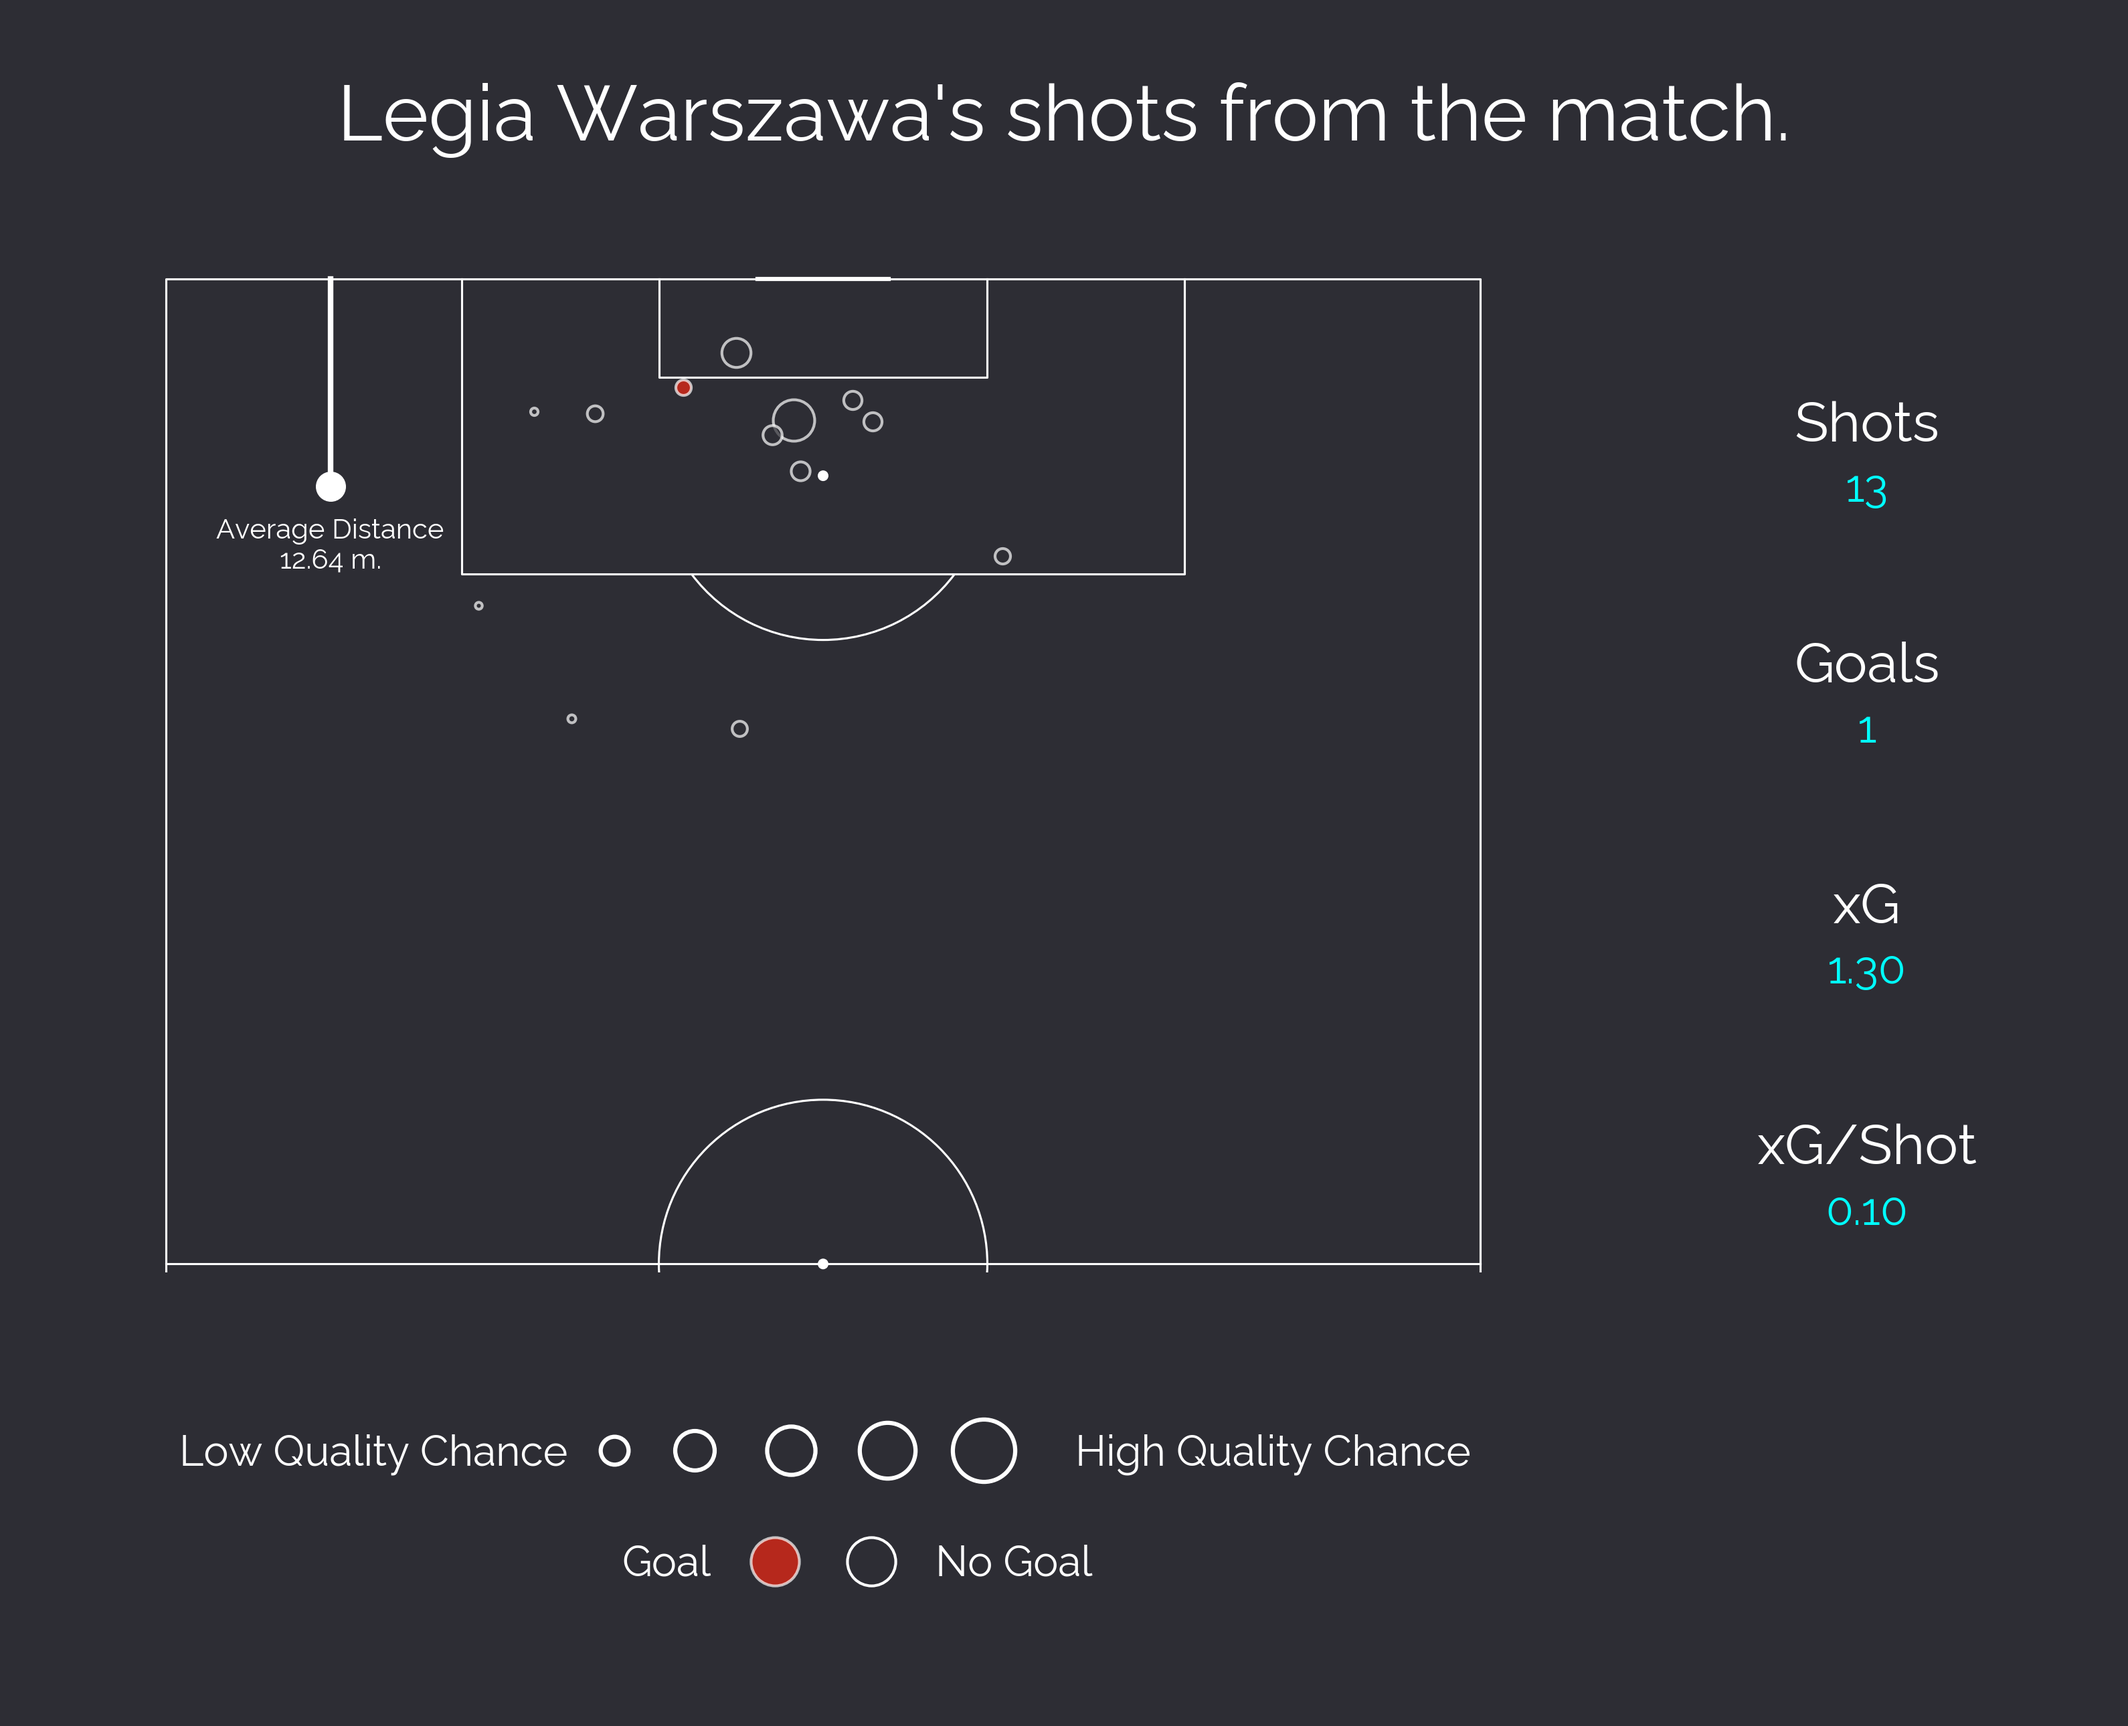
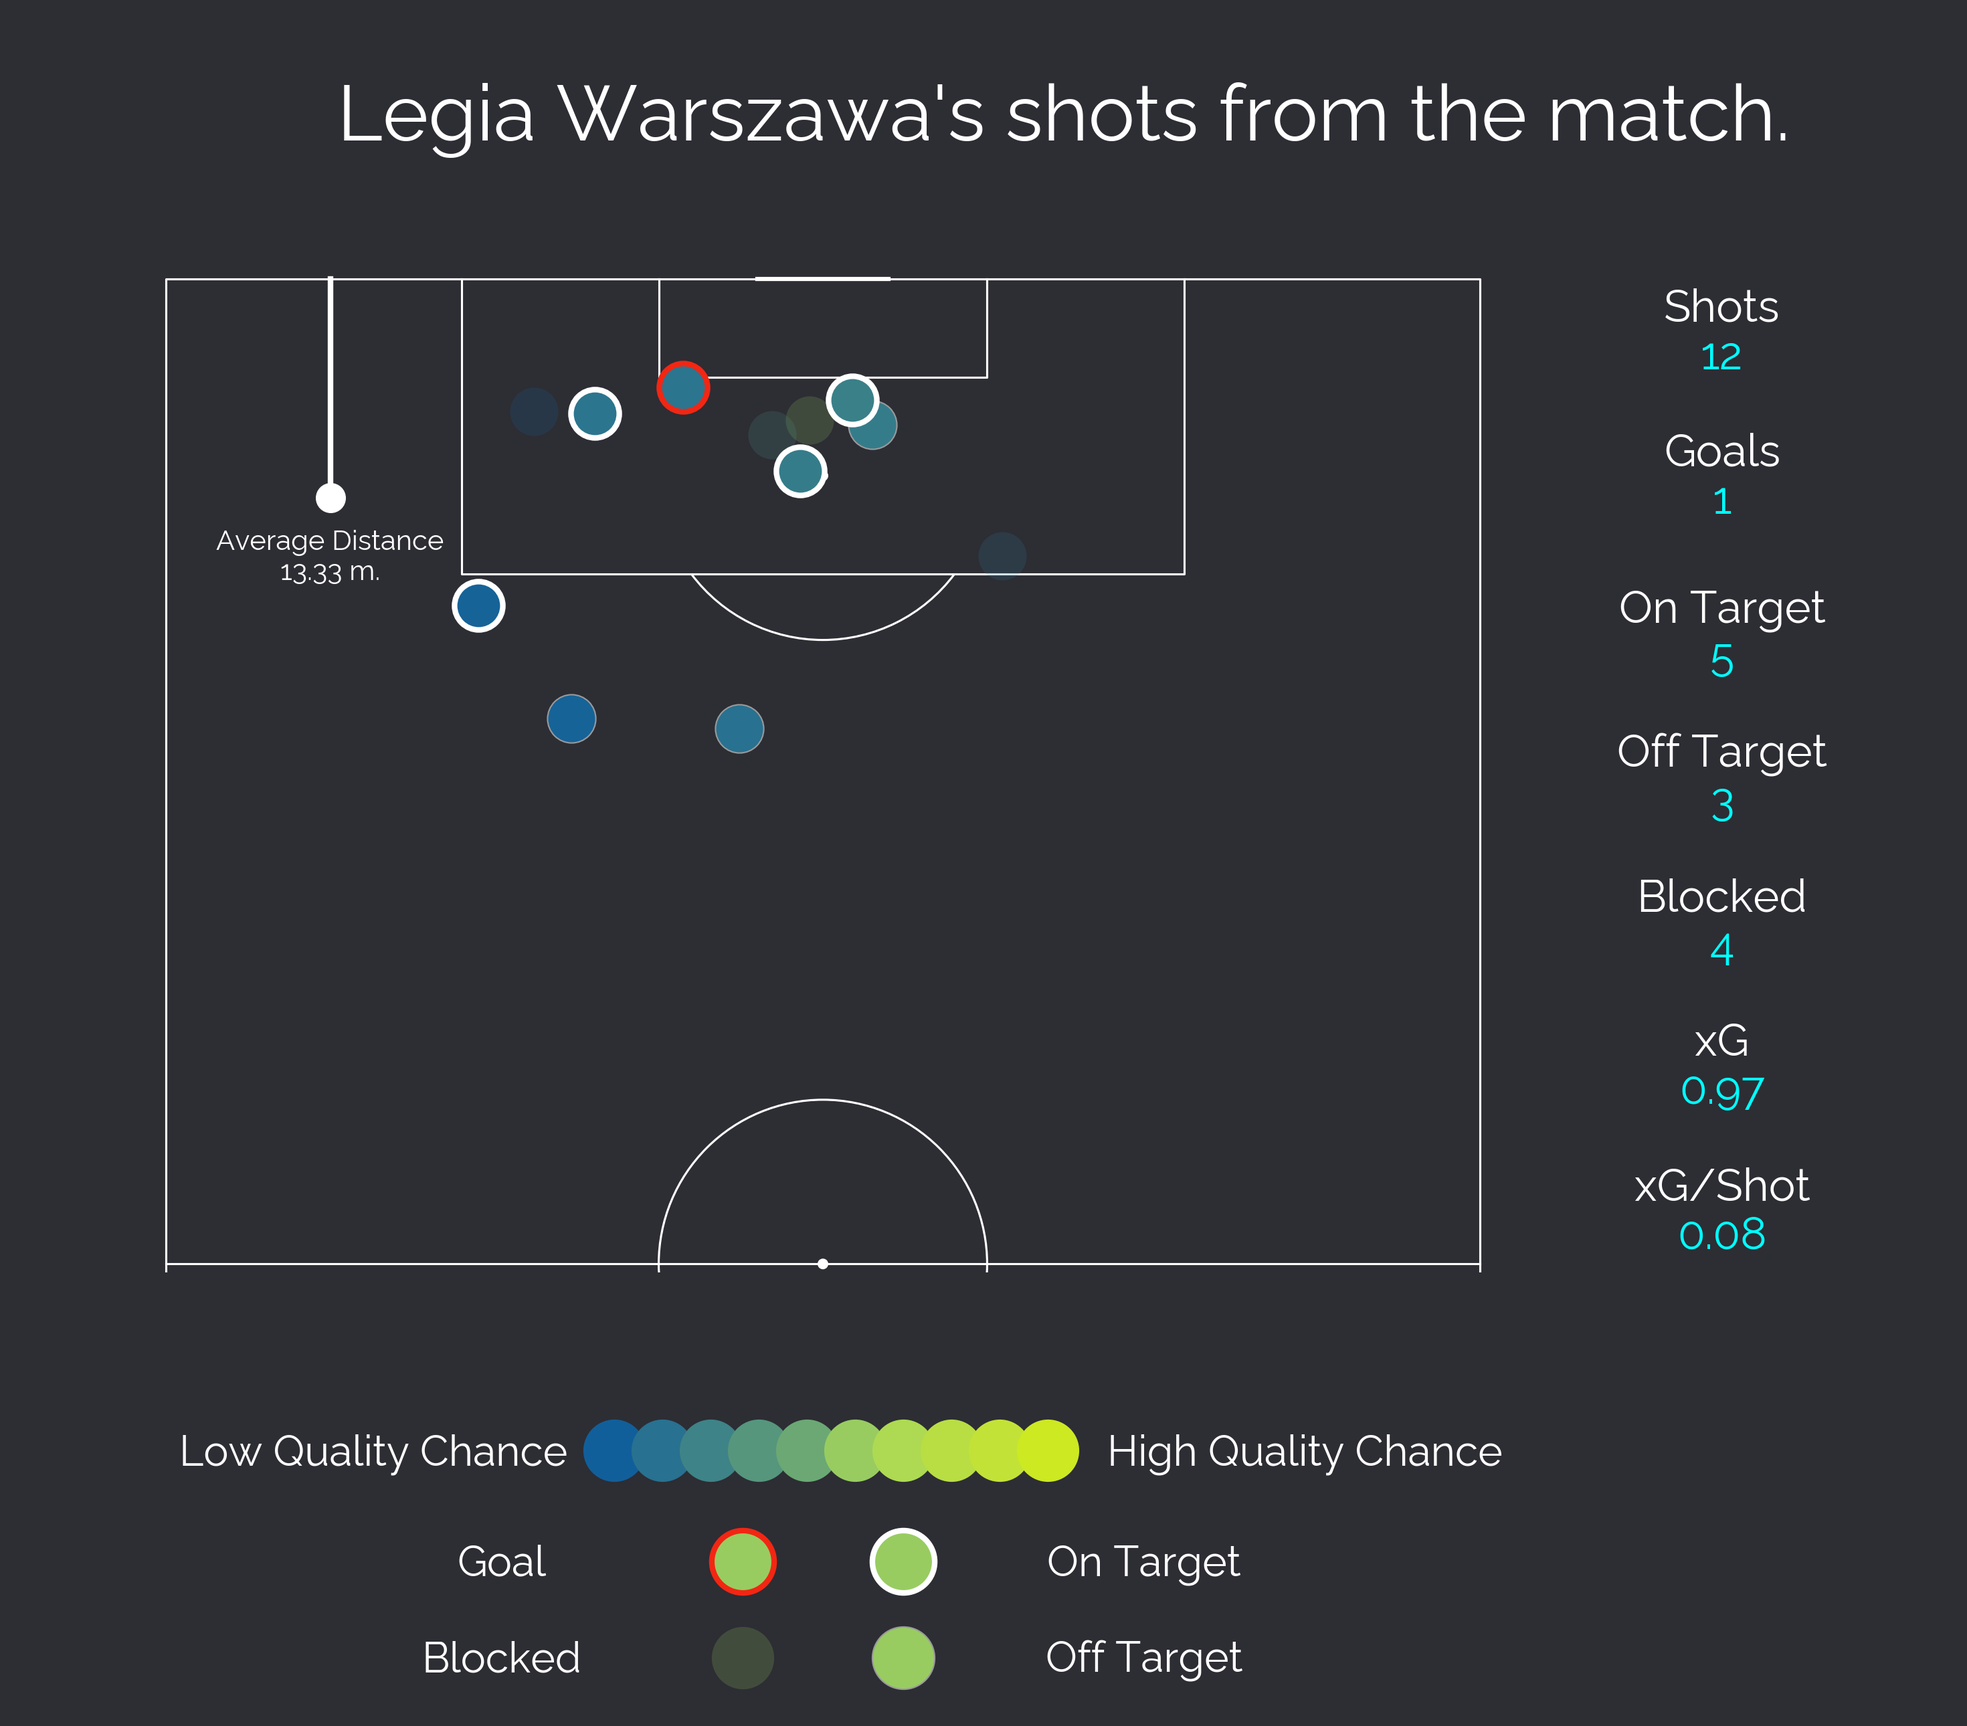
change shot maps

diff --git a/plots_and_charts/shot_maps.py b/plots_and_charts/shot_maps.py
@@ -1,5 +1,6 @@
 import matplotlib.pyplot as plt
 import pandas as pd
+from matplotlib.colors import LinearSegmentedColormap
 from mplsoccer import VerticalPitch
 
 from constants import Constants
@@ -18,6 +19,8 @@ class ShotMaps:
         """
         self.shots_df = shots_df
         self.team_for = team_for
+        self.cmap = LinearSegmentedColormap.from_list("", Constants.SHOT_MAP_CMAP, N=100)
+
 
     def prepare_data(self, team_for: bool) -> pd.DataFrame:
         team_shots = self.shots_df[(self.shots_df["team"] == self.team_for) == team_for]
@@ -127,6 +130,152 @@ class ShotMaps:
         ax4.text(x=0.57, y=0.27, s=f'No Goal', fontsize=15, color=Constants.COLORS["white"], ha='left')
         ax4.set_axis_off()
 
+        fig.savefig(
+            f"{directory}/shot_maps_{team_type}.png",
+            facecolor=fig.get_facecolor(),
+            dpi=Constants.DPI,
+            bbox_inches='tight', 
+            pad_inches=Constants.PAD_INCHES
+        )
+
+        return fig
+    
+    def plot_advanced_shot_map(self, team_for: bool, directory: str, figsize: tuple[int, int] = (8, 12)) -> plt.Figure:
+        shots = self.prepare_data(team_for)
+        team_type = "for" if team_for else "against"
+
+        total_shots = shots.shape[0]
+        shots_on_target = shots[shots["shot_outcome"].isin(["Saved", "Goal", "Saved to Post"])].shape[0]
+        shots_off_target = shots[~shots["shot_outcome"].isin(["Saved", "Saved to Post", "Blocked", "Goal"])].shape[0]
+        shots_blocked = shots[shots["shot_outcome"] == "Blocked"].shape[0]
+        total_goals = shots[shots['shot_outcome'] == 'Goal'].shape[0]
+        total_xG = shots['shot_statsbomb_xg'].sum()
+        xG_per_shot = total_xG / total_shots
+        points_average_distance = shots['x'].mean()
+        actual_average_distance = 120 - shots['x'].mean()
+
+        pitch = VerticalPitch(
+            pitch_type='statsbomb', 
+            half=True, 
+            pitch_color=Constants.DARK_BACKGROUND_COLOR, 
+            pad_bottom=.5, 
+            line_color=Constants.COLORS["white"],
+            linewidth=.75,
+            axis=True, label=True
+        )
+
+        # create a subplot with 2 rows and 1 column
+        fig = plt.figure(figsize=figsize)
+        fig.patch.set_facecolor(Constants.DARK_BACKGROUND_COLOR)
+        title = self.team_for if team_for else "Opponent"
+        plt.rcParams["font.family"] = Constants.FONT
+        # Top row for the team names and score
+        # [left, bottom, width, height]
+
+        ax1 = fig.add_axes([0, 0.6, 1, .2])
+        ax1.set_facecolor(Constants.DARK_BACKGROUND_COLOR)
+        ax1.set_xlim(0, 1)
+        ax1.set_ylim(0, 1)
+
+        ax1.text(x=0.65, y=.75, s=f"{title}'s shots from the match.", fontsize=28, fontweight='bold', color=Constants.COLORS["white"], ha='center')
+        ax1.set_axis_off()
+
+        ax2 = fig.add_axes([0.05, 0.25, .9, .5])
+        ax2.set_facecolor(Constants.DARK_BACKGROUND_COLOR)
+
+        pitch.draw(ax=ax2)
+        # create a scatter plot at y 100 - average_distance
+        ax2.scatter(x=10, y=points_average_distance, s=100, color=Constants.COLORS["white"], linewidth=.8)
+        # create a line from the bottom of the pitch to the scatter point
+        ax2.plot([10, 10], [120, points_average_distance], color=Constants.COLORS["white"], linewidth=2)
+        # Add a text label for the average distance
+        ax2.text(x=10, y=points_average_distance - 5, s=f'Average Distance\n{actual_average_distance:.2f} m.', fontsize=10, color=Constants.COLORS["white"], ha='center')
+        for x in shots.to_dict(orient='records'):
+            color = self.cmap(x['shot_statsbomb_xg'])
+            edge_color = Constants.COLORS["red"] if x["shot_outcome"] == "Goal" else Constants.COLORS["white"]
+            edge_color = edge_color if x["shot_outcome"] in ["Goal", "Saved", "Saved to Post"] else Constants.COLORS["sb_grey"]
+            linewidth = 2 if x["shot_outcome"] in ["Goal", "Saved", "Saved to Post"] else 0.5
+            linewidth = linewidth if x["shot_outcome"] != "Blocked" else 0
+            alpha = 0.2 if x["shot_outcome"] in ["Blocked"] else 1
+            # marker = "D" if x["shot_outcome"] == "Goal" else "o"
+            zorder = 5 if x["shot_outcome"] in ["Goal", "Saved", "Saved to Post"] else 4
+            pitch.scatter(
+                x['x'], 
+                x['y'], 
+                s=300, 
+                color=color,
+                ax=ax2,
+                zorder=zorder,
+                alpha=alpha,
+                # marker=marker,
+                linewidth=linewidth,
+                edgecolor=edge_color
+            )
+            
+        ax2.set_axis_off()
+
+        # add another axis for the stats
+        ax3 = fig.add_axes([1, .2, 0.2, .05])
+        ax3.set_facecolor(Constants.DARK_BACKGROUND_COLOR)
+        ax3.set_xlim(0, 1)
+        ax3.set_ylim(0, 1)
+
+
+        ax3.text(x=0.3, y=9.5, s='Shots', fontsize=16, fontweight='bold', color=Constants.COLORS["white"], ha='center')
+        ax3.text(x=0.3, y=9.1, s=f'{total_shots}', fontsize=16, color=Constants.COLORS["cyan"], ha='center')
+        
+        ax3.text(x=0.3, y=8.3, s='Goals', fontsize=16, fontweight='bold', color=Constants.COLORS["white"], ha='center')
+        ax3.text(x=0.3, y=7.9, s=f'{total_goals}', fontsize=16, color=Constants.COLORS["cyan"], ha='center')
+
+        ax3.text(x=0.3, y=7, s='On Target', fontsize=16, fontweight='bold', color=Constants.COLORS["white"], ha='center')
+        ax3.text(x=0.3, y=6.6, s=f'{shots_on_target}', fontsize=16, color=Constants.COLORS["cyan"], ha='center')
+
+        ax3.text(x=0.3, y=5.8, s='Off Target', fontsize=16, fontweight='bold', color=Constants.COLORS["white"], ha='center')
+        ax3.text(x=0.3, y=5.4, s=f'{shots_off_target}', fontsize=16, color=Constants.COLORS["cyan"], ha='center')
+
+        ax3.text(x=0.3, y=4.6, s='Blocked', fontsize=16, fontweight='bold', color=Constants.COLORS["white"], ha='center')
+        ax3.text(x=0.3, y=4.2, s=f'{shots_blocked}', fontsize=16, color=Constants.COLORS["cyan"], ha='center')
+        
+        ax3.text(x=0.3, y=3.4, s='xG', fontsize=16, fontweight='bold', color=Constants.COLORS["white"], ha='center')
+        ax3.text(x=0.3, y=3, s=f'{total_xG:.2f}', fontsize=16, color=Constants.COLORS["cyan"], ha='center')
+
+        ax3.text(x=0.3, y=2.2, s='xG/Shot', fontsize=16, fontweight='bold', color=Constants.COLORS["white"], ha='center')
+        ax3.text(x=0.3, y=1.8, s=f'{xG_per_shot:.2f}', fontsize=16, color=Constants.COLORS["cyan"], ha='center')
+
+        ax3.set_axis_off()
+
+
+        # add another axis for the stats
+        ax4 = fig.add_axes([0, 0.1, 1, 0.2])
+        ax4.set_facecolor(Constants.DARK_BACKGROUND_COLOR)
+        ax4.set_xlim(0, 1)
+        ax4.set_ylim(0, 1)
+
+        size = 500
+        ax4.text(x=0.22, y=0.5, s=f'Low Quality Chance', fontsize=15, color=Constants.COLORS["white"], ha='center')
+        ax4.scatter(x=0.37, y=0.53, s=size, color=self.cmap(0.0), edgecolor=Constants.COLORS["white"], linewidth=0)
+        ax4.scatter(x=0.40, y=0.53, s=size, color=self.cmap(0.05), edgecolor=Constants.COLORS["white"], linewidth=0)
+        ax4.scatter(x=0.43, y=0.53, s=size, color=self.cmap(0.1), edgecolor=Constants.COLORS["white"], linewidth=0)
+        ax4.scatter(x=0.46, y=0.53, s=size, color=self.cmap(0.15), edgecolor=Constants.COLORS["white"], linewidth=0)
+        ax4.scatter(x=0.49, y=0.53, s=size, color=self.cmap(0.2), edgecolor=Constants.COLORS["white"], linewidth=0)
+        ax4.scatter(x=0.52, y=0.53, s=size, color=self.cmap(0.3), edgecolor=Constants.COLORS["white"], linewidth=0)
+        ax4.scatter(x=0.55, y=0.53, s=size, color=self.cmap(0.4), edgecolor=Constants.COLORS["white"], linewidth=0)
+        ax4.scatter(x=0.58, y=0.53, s=size, color=self.cmap(0.5), edgecolor=Constants.COLORS["white"], linewidth=0)
+        ax4.scatter(x=0.61, y=0.53, s=size, color=self.cmap(0.6), edgecolor=Constants.COLORS["white"], linewidth=0)
+        ax4.scatter(x=0.64, y=0.53, s=size, color=self.cmap(0.8), edgecolor=Constants.COLORS["white"], linewidth=0)
+        ax4.text(x=0.8, y=0.5, s=f'High Quality Chance', fontsize=15, color=Constants.COLORS["white"], ha='center')
+
+        ax4.scatter(x=0.45, y=0.3, s=size, color=self.cmap(0.3), edgecolor=Constants.COLORS["red"], linewidth=2, alpha=1)
+        ax4.text(x=0.3, y=0.27, s=f'Goal', fontsize=15, color=Constants.COLORS["white"], ha='center')
+        ax4.scatter(x=0.55, y=0.3, s=size, color=self.cmap(0.3), edgecolor=Constants.COLORS["white"], linewidth=2, alpha=1)
+        ax4.text(x=0.7, y=0.27, s=f'On Target', fontsize=15, color=Constants.COLORS["white"], ha='center')
+        ax4.scatter(x=0.55, y=0.1, s=size, color=self.cmap(0.3), edgecolor=Constants.COLORS["sb_grey"], linewidth=0.5, alpha=1)
+        ax4.text(x=0.7, y=0.07, s=f'Off Target', fontsize=15, color=Constants.COLORS["white"], ha='center')
+        ax4.scatter(x=0.45, y=0.1, s=size, color=self.cmap(0.3), edgecolor=Constants.COLORS["white"], linewidth=0, alpha=0.2)
+        ax4.text(x=0.3, y=0.07, s=f'Blocked', fontsize=15, color=Constants.COLORS["white"], ha='center')
+        
+        ax4.set_axis_off()
+                
         fig.savefig(
             f"{directory}/shot_maps_{team_type}.png",
             facecolor=fig.get_facecolor(),

diff --git a/streamlit_app.py b/streamlit_app.py
@@ -192,13 +192,13 @@ if match:
         if os.path.isfile(path) and not REGENERATE:
             st.image(path, use_column_width=True)
         else:
-            st.pyplot(shot_maps.plot_shot_map(directory=directory, team_for=True), clear_figure=True)
+            st.pyplot(shot_maps.plot_advanced_shot_map(directory=directory, team_for=True), clear_figure=True)
     with col2:
         path = f"matches/{match_id}/shot_maps_against.png"
         if os.path.isfile(path) and not REGENERATE:
             st.image(path, use_column_width=True)
         else:
-            st.pyplot(shot_maps.plot_shot_map(directory=directory, team_for=False), clear_figure=True)
+            st.pyplot(shot_maps.plot_advanced_shot_map(directory=directory, team_for=False), clear_figure=True)
 
     toc.header("Shots Outcome")
     shot_tables = ShotsTables(shots, team_for=team_name)

diff --git a/constants.py b/constants.py
@@ -84,6 +84,7 @@ class Constants:
     ]
     CMAP_IND_GOOD = [EVEN_ROW_COLOR, "#fffae6", "#f2fbd2", "#c9ecb4", "#93d3ab", "#35b0ab"]
     CMAP_IND_BAD = ["#fffae6", "#ffbaba", '#ff7b7b', "#ff0000"]
+    SHOT_MAP_CMAP = ["#115f9a", "#a6d75b", "#c9e52f", "#d0ee11"]
 
         # Load the custom font from file and set it up
     FONT_PATH = "resources/Raleway-Regular.ttf"  # Replace this with the actual path to your font file
